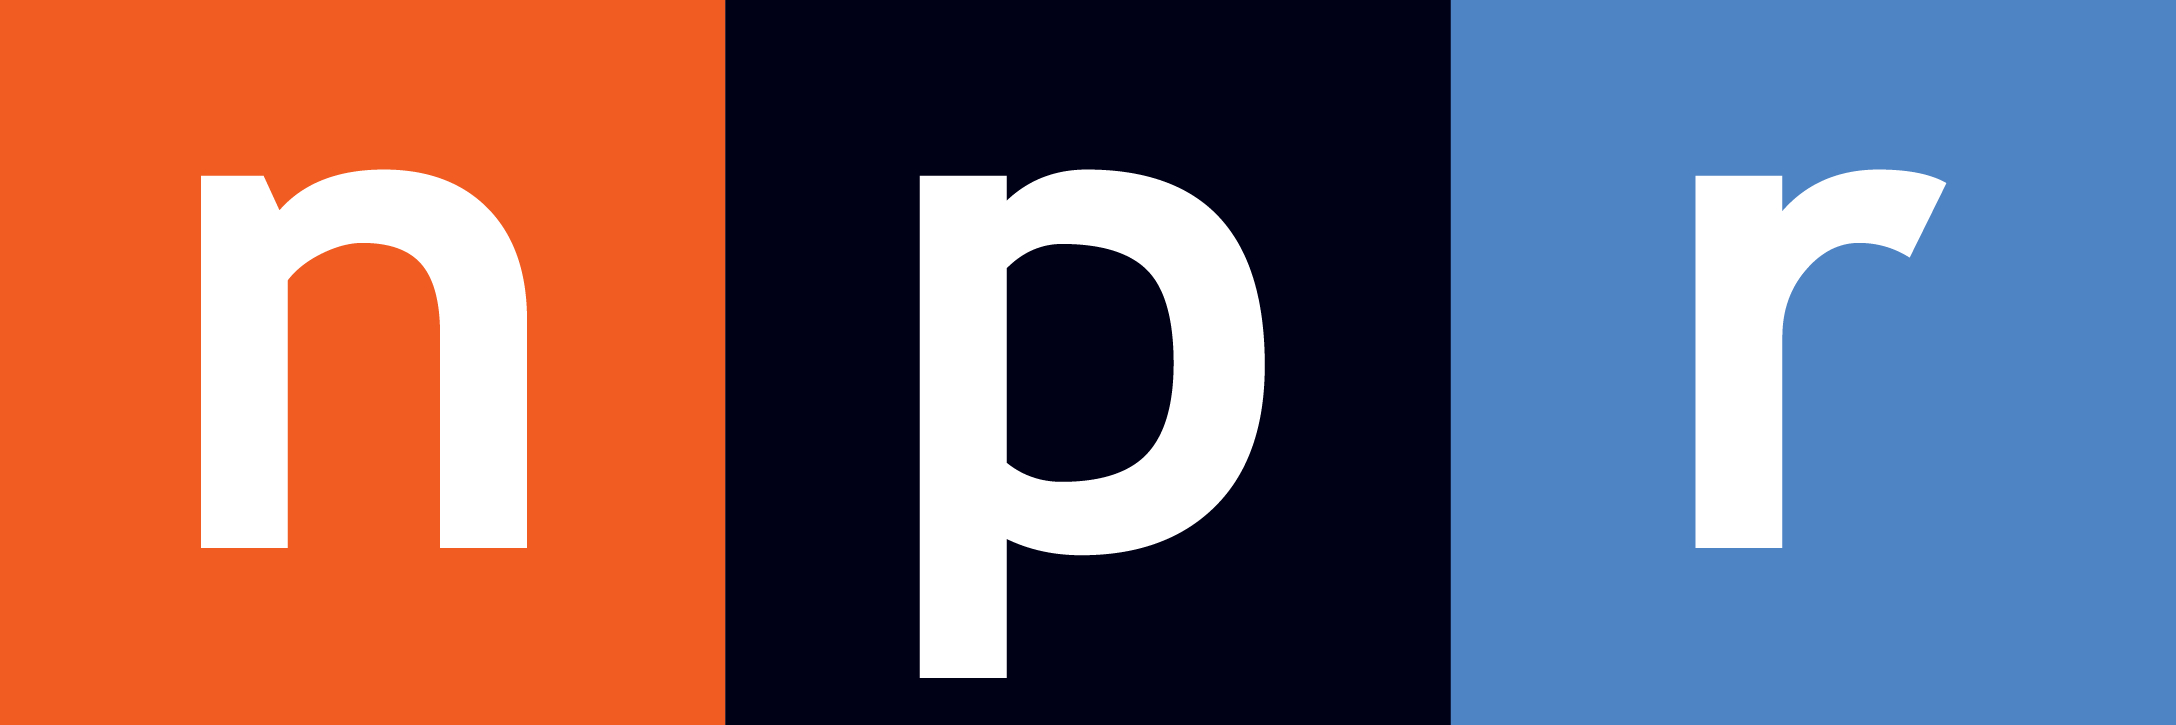
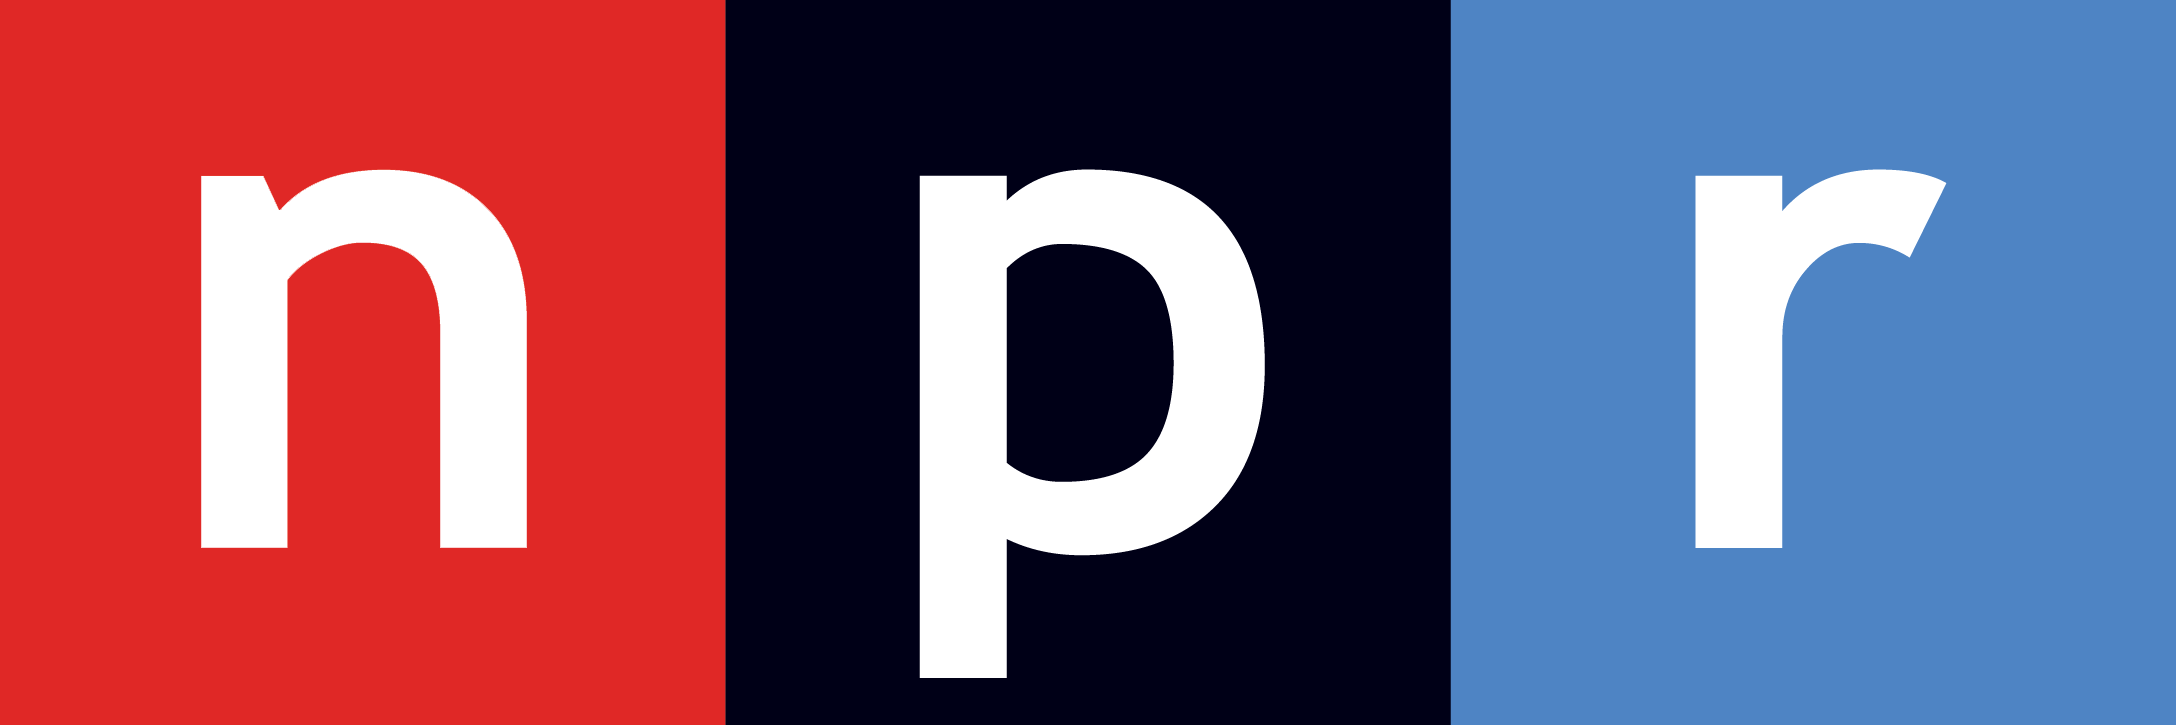
css changes

Changed region(s): [[0.0, 0.0, 0.3438, 1.0]]

diff --git a/public/assets/css/style.css b/public/assets/css/style.css
@@ -28,6 +28,11 @@ h4 {
     font-size: 14pt;
 }
 
+.spacer {
+    width: 100%;
+    height: 40px;
+}
+
 #nprLogo {
     margin-top: 8%;
     margin-bottom: 20px;
@@ -106,6 +111,10 @@ h4 {
     background-color: #961c1a;
 }
 
+#scrape3:hover {
+    background-color: #961c1a;
+}
+
 .pageTitle {
     font-size: 32pt;
     color: white;
@@ -123,9 +132,11 @@ h4 {
 
 .homepageTitle {
     font-family: 'Roboto Slab', serif;
+    color: #e02826;
     font-size: 32pt;
     line-height: 32pt;
     margin-bottom: 15px;
+    font-weight: bold;
 }
 
 .mainContainer {
